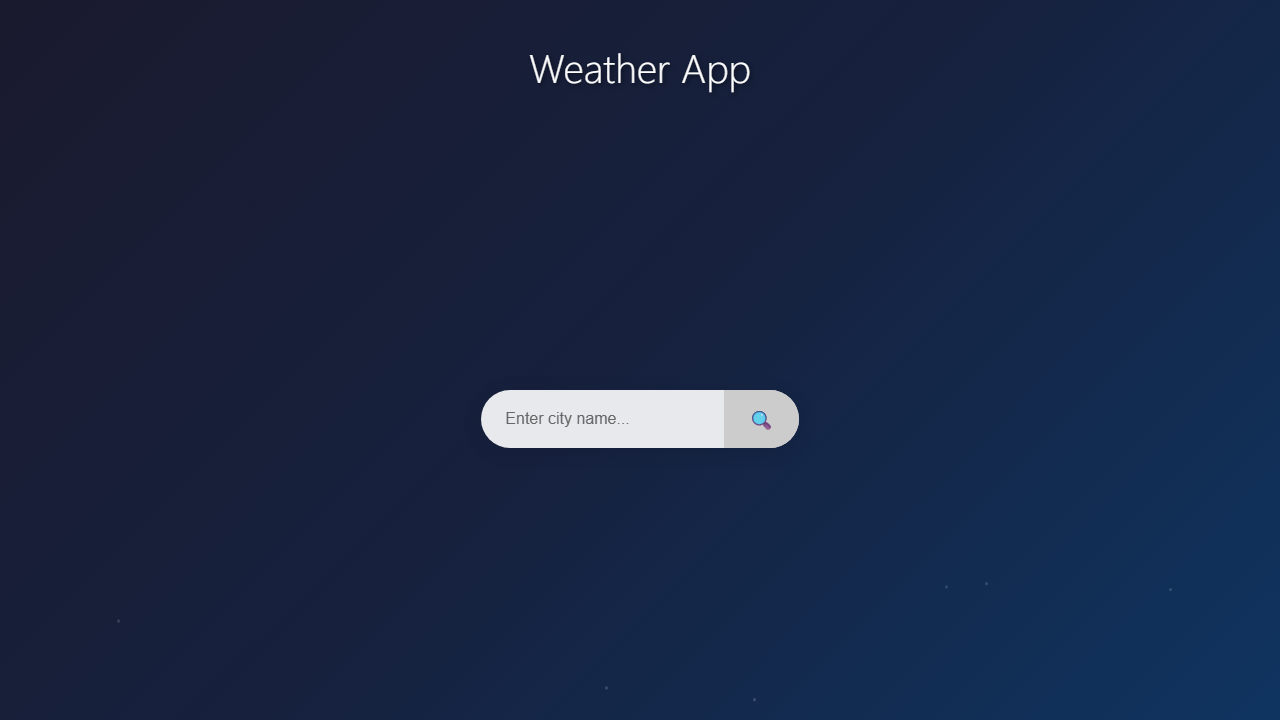
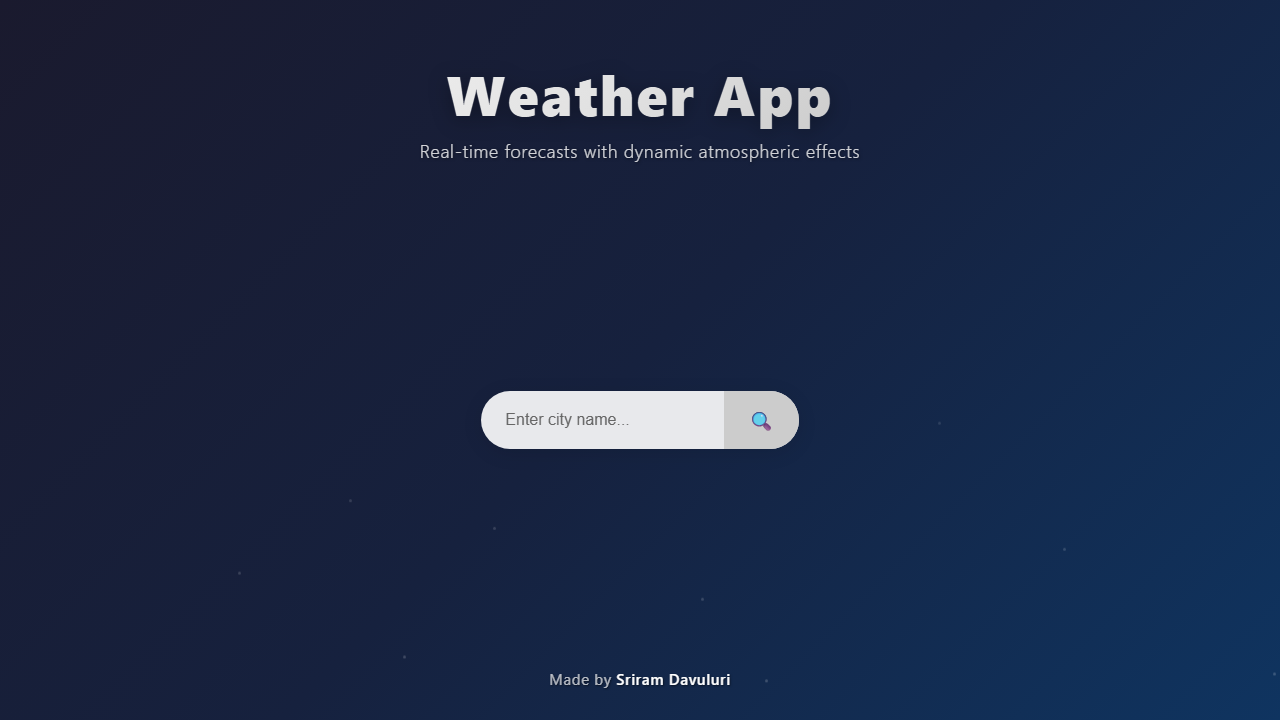
feat: enhance typography and add custom branding footer

Changed region(s): [[0.3438, 0.0611, 0.6562, 0.2444], [0.4375, 0.9167, 0.5625, 0.9778]]

diff --git a/src/app/app.scss b/src/app/app.scss
@@ -33,15 +33,41 @@
 
 .app-header {
   text-align: center;
-  padding: 2rem 1rem 1rem;
+  padding: 3rem 1rem 1rem;
   color: white;
-  text-shadow: 2px 2px 4px rgba(0, 0, 0, 0.5);
+  z-index: 2;
+  position: relative;
 }
 
-.app-header h1 {
+.title-wrapper {
+  margin-bottom: 2rem;
+  animation: fadeInDown 1.2s cubic-bezier(0.2, 0.8, 0.2, 1);
+}
+
+.main-title {
   margin: 0;
-  font-size: 2.5rem;
+  font-size: 3.5rem;
+  font-weight: 800;
+  letter-spacing: 2px;
+  background: linear-gradient(135deg, #ffffff 0%, #e0e0e0 50%, #a8a8a8 100%);
+  -webkit-background-clip: text;
+  background-clip: text;
+  -webkit-text-fill-color: transparent;
+  filter: drop-shadow(0px 4px 10px rgba(0, 0, 0, 0.3));
+}
+
+.subtitle {
+  margin-top: 0.5rem;
+  font-size: 1.1rem;
   font-weight: 300;
+  letter-spacing: 1px;
+  color: rgba(255, 255, 255, 0.85);
+  text-shadow: 1px 1px 3px rgba(0, 0, 0, 0.6);
+}
+
+@keyframes fadeInDown {
+  from { opacity: 0; transform: translateY(-20px); }
+  to { opacity: 1; transform: translateY(0); }
 }
 
 .app-main {
@@ -76,12 +102,33 @@
 }
 
 @media (max-width: 768px) {
-  .app-header h1 {
-    font-size: 2rem;
+  .main-title {
+    font-size: 2.5rem;
+  }
+  
+  .subtitle {
+    font-size: 0.95rem;
   }
   
   .app-main {
     padding: 0.5rem;
     gap: 1.5rem;
+  }
+}
+
+.app-footer {
+  margin-top: auto;
+  padding: 1.5rem;
+  text-align: center;
+  color: rgba(255, 255, 255, 0.7);
+  font-size: 0.95rem;
+  letter-spacing: 0.5px;
+  text-shadow: 1px 1px 2px rgba(0, 0, 0, 0.6);
+  z-index: 2;
+  position: relative;
+  
+  strong {
+    color: white;
+    font-weight: 600;
   }
 }

diff --git a/src/app/app.html b/src/app/app.html
@@ -2,7 +2,10 @@
 
 <div class="app-container">
   <header class="app-header">
-    <h1>Weather App</h1>
+    <div class="title-wrapper">
+      <h1 class="main-title">Weather App</h1>
+      <p class="subtitle">Real-time forecasts with dynamic atmospheric effects</p>
+    </div>
   </header>
 
   <main class="app-main">
@@ -25,4 +28,8 @@
       <p>Fetching weather...</p>
     </div>
   </main>
+
+  <footer class="app-footer">
+    <p>Made by <strong>Sriram Davuluri</strong></p>
+  </footer>
 </div>
